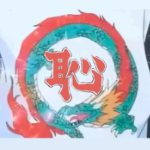
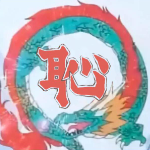
- 調整黑白模式為自動 - 調整大頭貼

diff --git a/public/p/hello-r-markdown/index.html b/public/p/hello-r-markdown/index.html
@@ -26,7 +26,7 @@ summary(cars) ## speed dist ## Min. : 4.0 Min. : 2.00 ## 1st Qu.:12.0 1st Qu.: 2
         (function() {
             const colorSchemeKey = 'StackColorScheme';
             if(!localStorage.getItem(colorSchemeKey)){
-                localStorage.setItem(colorSchemeKey, "dark");
+                localStorage.setItem(colorSchemeKey, "auto");
             }
         })();
     </script><script>
@@ -66,7 +66,7 @@ summary(cars) ## speed dist ## Min. : 4.0 Min. : 2.00 ## 1st Qu.:12.0 1st Qu.: 2
                     
                     
                         
-                        <img src="/img/avatar_hu653e1b623416aec68ccf000daccc9349_35011_300x0_resize_box_3.png" width="300"
+                        <img src="/img/avatar_hu1744828c5afdda69c39f4249ad51732c_43073_300x0_resize_box_3.png" width="300"
                             height="300" class="site-logo" loading="lazy" alt="Avatar">
                     
                 

diff --git a/public/404.html b/public/404.html
@@ -18,7 +18,7 @@
         (function() {
             const colorSchemeKey = 'StackColorScheme';
             if(!localStorage.getItem(colorSchemeKey)){
-                localStorage.setItem(colorSchemeKey, "dark");
+                localStorage.setItem(colorSchemeKey, "auto");
             }
         })();
     </script><script>
@@ -52,7 +52,7 @@
                     
                     
                         
-                        <img src="/img/avatar_hu653e1b623416aec68ccf000daccc9349_35011_300x0_resize_box_3.png" width="300"
+                        <img src="/img/avatar_hu1744828c5afdda69c39f4249ad51732c_43073_300x0_resize_box_3.png" width="300"
                             height="300" class="site-logo" loading="lazy" alt="Avatar">
                     
                 

diff --git a/public/about/index.html b/public/about/index.html
@@ -20,7 +20,7 @@
         (function() {
             const colorSchemeKey = 'StackColorScheme';
             if(!localStorage.getItem(colorSchemeKey)){
-                localStorage.setItem(colorSchemeKey, "dark");
+                localStorage.setItem(colorSchemeKey, "auto");
             }
         })();
     </script><script>
@@ -60,7 +60,7 @@
                     
                     
                         
-                        <img src="/img/avatar_hu653e1b623416aec68ccf000daccc9349_35011_300x0_resize_box_3.png" width="300"
+                        <img src="/img/avatar_hu1744828c5afdda69c39f4249ad51732c_43073_300x0_resize_box_3.png" width="300"
                             height="300" class="site-logo" loading="lazy" alt="Avatar">
                     
                 

diff --git a/public/archives/index.html b/public/archives/index.html
@@ -18,7 +18,7 @@
         (function() {
             const colorSchemeKey = 'StackColorScheme';
             if(!localStorage.getItem(colorSchemeKey)){
-                localStorage.setItem(colorSchemeKey, "dark");
+                localStorage.setItem(colorSchemeKey, "auto");
             }
         })();
     </script><script>
@@ -52,7 +52,7 @@
                     
                     
                         
-                        <img src="/img/avatar_hu653e1b623416aec68ccf000daccc9349_35011_300x0_resize_box_3.png" width="300"
+                        <img src="/img/avatar_hu1744828c5afdda69c39f4249ad51732c_43073_300x0_resize_box_3.png" width="300"
                             height="300" class="site-logo" loading="lazy" alt="Avatar">
                     
                 

diff --git a/public/categories/index.html b/public/categories/index.html
@@ -18,7 +18,7 @@
         (function() {
             const colorSchemeKey = 'StackColorScheme';
             if(!localStorage.getItem(colorSchemeKey)){
-                localStorage.setItem(colorSchemeKey, "dark");
+                localStorage.setItem(colorSchemeKey, "auto");
             }
         })();
     </script><script>
@@ -52,7 +52,7 @@
                     
                     
                         
-                        <img src="/img/avatar_hu653e1b623416aec68ccf000daccc9349_35011_300x0_resize_box_3.png" width="300"
+                        <img src="/img/avatar_hu1744828c5afdda69c39f4249ad51732c_43073_300x0_resize_box_3.png" width="300"
                             height="300" class="site-logo" loading="lazy" alt="Avatar">
                     
                 

diff --git a/public/categories/r/index.html b/public/categories/r/index.html
@@ -18,7 +18,7 @@
         (function() {
             const colorSchemeKey = 'StackColorScheme';
             if(!localStorage.getItem(colorSchemeKey)){
-                localStorage.setItem(colorSchemeKey, "dark");
+                localStorage.setItem(colorSchemeKey, "auto");
             }
         })();
     </script><script>
@@ -52,7 +52,7 @@
                     
                     
                         
-                        <img src="/img/avatar_hu653e1b623416aec68ccf000daccc9349_35011_300x0_resize_box_3.png" width="300"
+                        <img src="/img/avatar_hu1744828c5afdda69c39f4249ad51732c_43073_300x0_resize_box_3.png" width="300"
                             height="300" class="site-logo" loading="lazy" alt="Avatar">
                     
                 

diff --git a/public/categories/syntax/index.html b/public/categories/syntax/index.html
@@ -18,7 +18,7 @@
         (function() {
             const colorSchemeKey = 'StackColorScheme';
             if(!localStorage.getItem(colorSchemeKey)){
-                localStorage.setItem(colorSchemeKey, "dark");
+                localStorage.setItem(colorSchemeKey, "auto");
             }
         })();
     </script><script>
@@ -52,7 +52,7 @@
                     
                     
                         
-                        <img src="/img/avatar_hu653e1b623416aec68ccf000daccc9349_35011_300x0_resize_box_3.png" width="300"
+                        <img src="/img/avatar_hu1744828c5afdda69c39f4249ad51732c_43073_300x0_resize_box_3.png" width="300"
                             height="300" class="site-logo" loading="lazy" alt="Avatar">
                     
                 

diff --git a/public/categories/test-with-whitespaces/index.html b/public/categories/test-with-whitespaces/index.html
@@ -18,7 +18,7 @@
         (function() {
             const colorSchemeKey = 'StackColorScheme';
             if(!localStorage.getItem(colorSchemeKey)){
-                localStorage.setItem(colorSchemeKey, "dark");
+                localStorage.setItem(colorSchemeKey, "auto");
             }
         })();
     </script><script>
@@ -52,7 +52,7 @@
                     
                     
                         
-                        <img src="/img/avatar_hu653e1b623416aec68ccf000daccc9349_35011_300x0_resize_box_3.png" width="300"
+                        <img src="/img/avatar_hu1744828c5afdda69c39f4249ad51732c_43073_300x0_resize_box_3.png" width="300"
                             height="300" class="site-logo" loading="lazy" alt="Avatar">
                     
                 

diff --git a/public/categories/test/index.html b/public/categories/test/index.html
@@ -19,7 +19,7 @@
         (function() {
             const colorSchemeKey = 'StackColorScheme';
             if(!localStorage.getItem(colorSchemeKey)){
-                localStorage.setItem(colorSchemeKey, "dark");
+                localStorage.setItem(colorSchemeKey, "auto");
             }
         })();
     </script><script>
@@ -53,7 +53,7 @@
                     
                     
                         
-                        <img src="/img/avatar_hu653e1b623416aec68ccf000daccc9349_35011_300x0_resize_box_3.png" width="300"
+                        <img src="/img/avatar_hu1744828c5afdda69c39f4249ad51732c_43073_300x0_resize_box_3.png" width="300"
                             height="300" class="site-logo" loading="lazy" alt="Avatar">
                     
                 

diff --git a/public/categories/themes/index.html b/public/categories/themes/index.html
@@ -18,7 +18,7 @@
         (function() {
             const colorSchemeKey = 'StackColorScheme';
             if(!localStorage.getItem(colorSchemeKey)){
-                localStorage.setItem(colorSchemeKey, "dark");
+                localStorage.setItem(colorSchemeKey, "auto");
             }
         })();
     </script><script>
@@ -52,7 +52,7 @@
                     
                     
                         
-                        <img src="/img/avatar_hu653e1b623416aec68ccf000daccc9349_35011_300x0_resize_box_3.png" width="300"
+                        <img src="/img/avatar_hu1744828c5afdda69c39f4249ad51732c_43073_300x0_resize_box_3.png" width="300"
                             height="300" class="site-logo" loading="lazy" alt="Avatar">
                     
                 

diff --git a/public/index.html b/public/index.html
@@ -19,7 +19,7 @@
         (function() {
             const colorSchemeKey = 'StackColorScheme';
             if(!localStorage.getItem(colorSchemeKey)){
-                localStorage.setItem(colorSchemeKey, "dark");
+                localStorage.setItem(colorSchemeKey, "auto");
             }
         })();
     </script><script>
@@ -53,7 +53,7 @@
                     
                     
                         
-                        <img src="/img/avatar_hu653e1b623416aec68ccf000daccc9349_35011_300x0_resize_box_3.png" width="300"
+                        <img src="/img/avatar_hu1744828c5afdda69c39f4249ad51732c_43073_300x0_resize_box_3.png" width="300"
                             height="300" class="site-logo" loading="lazy" alt="Avatar">
                     
                 

diff --git a/public/p/emoji-support/index.html b/public/p/emoji-support/index.html
@@ -21,7 +21,7 @@
         (function() {
             const colorSchemeKey = 'StackColorScheme';
             if(!localStorage.getItem(colorSchemeKey)){
-                localStorage.setItem(colorSchemeKey, "dark");
+                localStorage.setItem(colorSchemeKey, "auto");
             }
         })();
     </script><script>
@@ -61,7 +61,7 @@
                     
                     
                         
-                        <img src="/img/avatar_hu653e1b623416aec68ccf000daccc9349_35011_300x0_resize_box_3.png" width="300"
+                        <img src="/img/avatar_hu1744828c5afdda69c39f4249ad51732c_43073_300x0_resize_box_3.png" width="300"
                             height="300" class="site-logo" loading="lazy" alt="Avatar">
                     
                 
